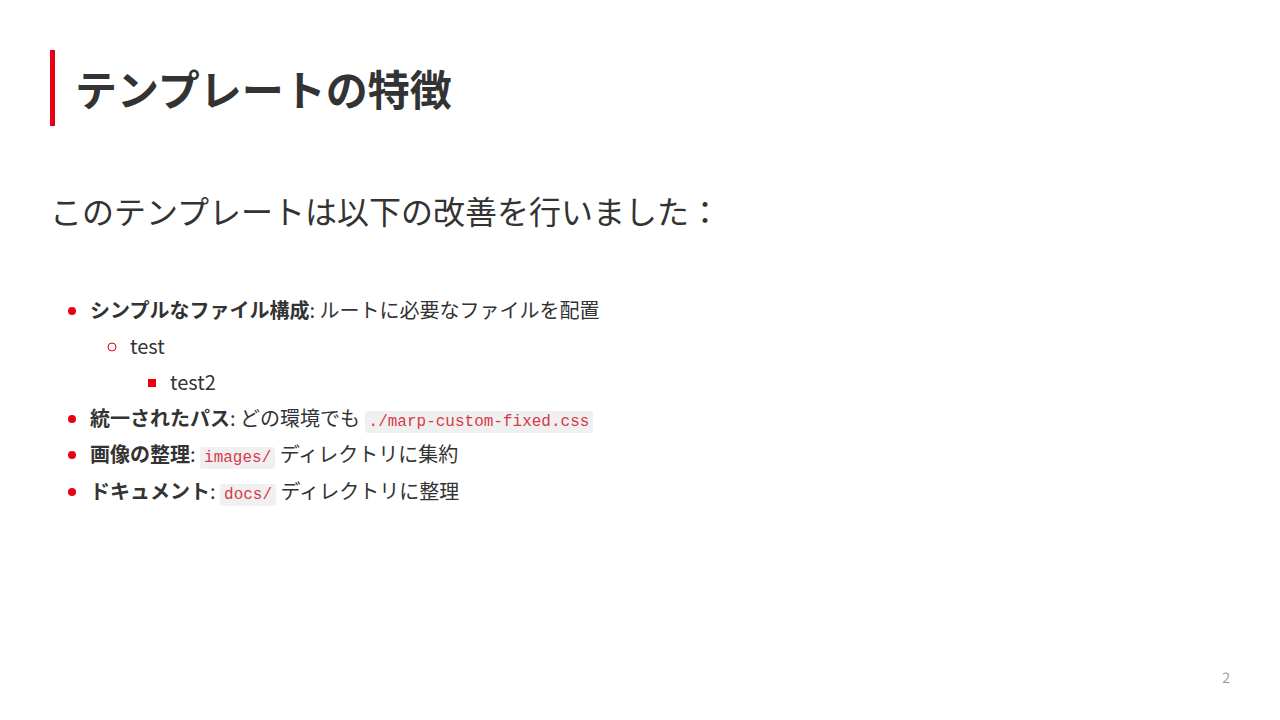
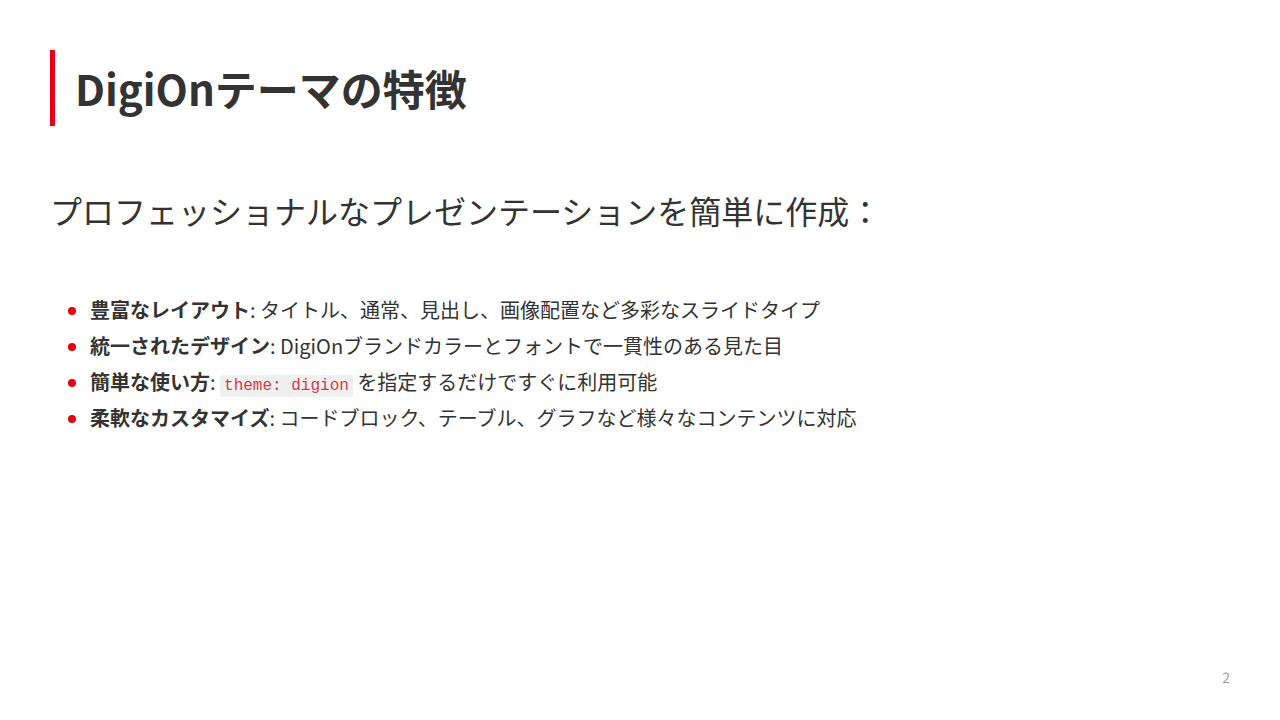
docs: Update slide 2 content and add it to README examples
- Change slide 2 from 'Template Features' to 'DigiOn Theme Features'
- Remove meaningless test items and outdated path information
- Add meaningful content about theme capabilities
- Include slide 2 in README.md generated examples section
- Update file structure documentation

diff --git a/basic-presentation.md b/basic-presentation.md
@@ -19,16 +19,14 @@ paginate: true
 
 ---
 
-## テンプレートの特徴
+## DigiOnテーマの特徴
 
-このテンプレートは以下の改善を行いました：
+プロフェッショナルなプレゼンテーションを簡単に作成：
 
-- **シンプルなファイル構成**: ルートに必要なファイルを配置
-  - test
-    - test2
-- **統一されたパス**: どの環境でも `./marp-custom-fixed.css`
-- **画像の整理**: `images/` ディレクトリに集約
-- **ドキュメント**: `docs/` ディレクトリに整理
+- **豊富なレイアウト**: タイトル、通常、見出し、画像配置など多彩なスライドタイプ
+- **統一されたデザイン**: DigiOnブランドカラーとフォントで一貫性のある見た目
+- **簡単な使い方**: `theme: digion` を指定するだけですぐに利用可能
+- **柔軟なカスタマイズ**: コードブロック、テーブル、グラフなど様々なコンテンツに対応
 
 ---
 

diff --git a/README.md b/README.md
@@ -55,6 +55,7 @@ marp-digion-template/
 │   └── DigiOn-Template-last.png       # 最終スライド
 ├── examples/                    # 生成されたスライドの例
 │   ├── basic-presentation.001.png     # タイトルスライド
+│   ├── basic-presentation.002.png     # 通常スライド（特徴説明）
 │   ├── basic-presentation.009.png     # 見出しスライド
 │   ├── basic-presentation.010.png     # 左画像レイアウト
 │   ├── basic-presentation.013.png     # コードブロック
@@ -220,6 +221,9 @@ const digion = new DigiOnSDK({
 
 ### タイトルスライド
 ![タイトルスライド](examples/basic-presentation.001.png)
+
+### 通常スライド（特徴説明）
+![通常スライド](examples/basic-presentation.002.png)
 
 ### 見出しスライド（headline）
 ![見出しスライド](examples/basic-presentation.009.png)
